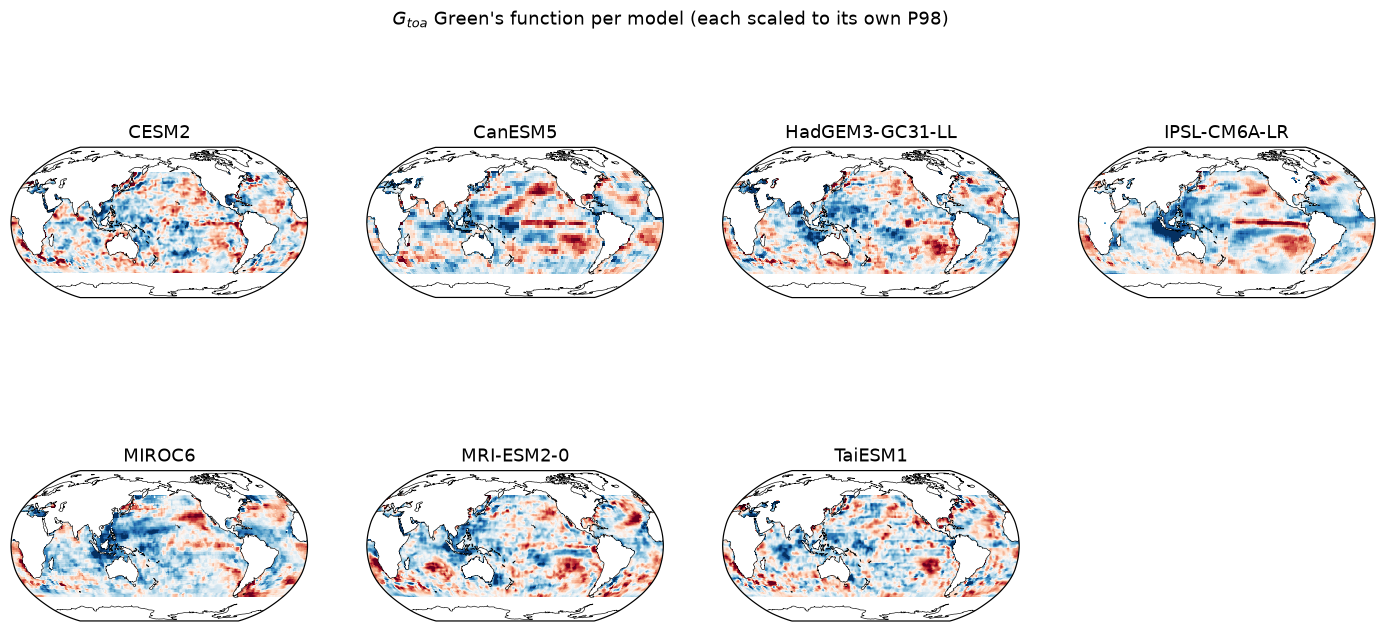
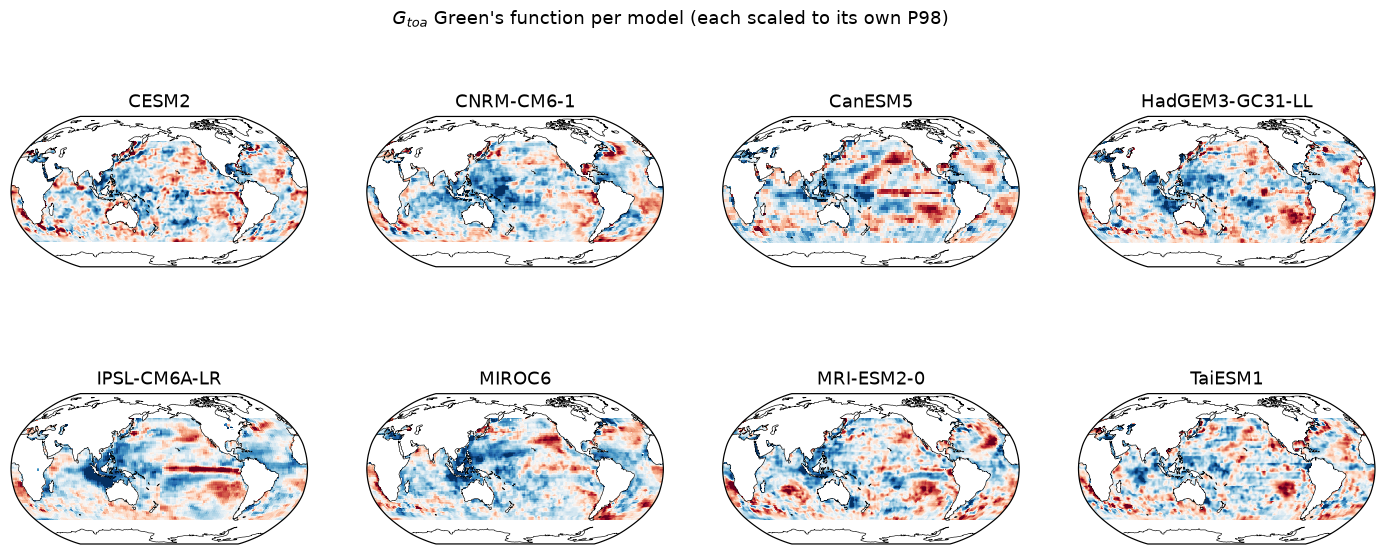
Add CNRM-CM6-1 to the analysis roster (now 8 models)
CNRM-CM6-1's amip-piForcing was downloaded, so it now has everything needed to
build and apply a GF: amip-piForcing tas/toa/ts (1870-2014), 30 historical tos
members, and sftlf. Moved it from the historical-only candidates into
CANDIDATE_AMIP_MODELS; the derived roster picks it up automatically (now 8).
Held-out skill is good (toa r² ~0.49, tas ~0.73); ensemble grows to 256 runs.

Also make the figure layouts robust to the model count: the per-model panels
were hardcoded 2x4, which fit 7 models + a pooled panel but silently clobbered
the 8th model's panel. 02 (GF maps) and 03 (feedback multipanels) now size the
grid from len(models).

diff --git a/03_feedbacks.py b/03_feedbacks.py
@@ -220,20 +220,27 @@ def hist_of(var, m):
 
 
 def multipanel(var, x, xlabel, title, fname, ylim=None):
-    fig, axes = plt.subplots(2, 4, figsize=(18, 8), sharex=True, sharey=True)
-    for ax, m in zip(axes.flat, models):
-        plotting.ensemble_band(ax, x, hist_of(var, m), "tab:blue", f"CMIP6 hist (n={hist_of(var, m).shape[0]})")
-        for e, c in [("amip_true", "k"), ("amip_gf", "tab:red")]:
-            ax.plot(x, feedbacks[var].sel(model=m, estimate=e), color=c, lw=1.8, label=e.replace("_", " "))
-        ax.set_title(m); ax.axhline(0, color="0.7", lw=0.5); ax.legend(fontsize=6.5)
-    ax = axes.flat[7]
-    plotting.ensemble_band(ax, x, ens[var].values, "tab:blue", f"CMIP6 hist (all {ens.sizes['run']})")
-    for e, c in [("amip_true", "k"), ("amip_gf", "tab:red")]:
-        ax.plot(x, feedbacks[var].sel(estimate=e).mean("model"), color=c, lw=2, label=e.replace("_", " "))
-    ax.set_title("all models pooled"); ax.axhline(0, color="0.7", lw=0.5); ax.legend(fontsize=7)
-    if ylim: ax.set_ylim(*ylim)
-    for a in axes[:, 0]: a.set_ylabel("λ [W m⁻² K⁻¹]")
-    for a in axes[1, :]: a.set_xlabel(xlabel)
+    # one panel per model plus a pooled panel; grid sized to fit however many models
+    panels = list(models) + ["all models pooled"]
+    ncols = 4
+    nrows = int(np.ceil(len(panels) / ncols))
+    fig, axes = plt.subplots(nrows, ncols, figsize=(4.5 * ncols, 3.4 * nrows), sharey=True)
+    axf = axes.flat
+    for ax, name in zip(axf, panels):
+        if name == "all models pooled":                                  # pooled = every run
+            band, true_, gf_ = ens[var].values, feedbacks[var].sel(estimate="amip_true").mean("model"), feedbacks[var].sel(estimate="amip_gf").mean("model")
+        else:                                                            # one model
+            band, true_, gf_ = hist_of(var, name), feedbacks[var].sel(model=name, estimate="amip_true"), feedbacks[var].sel(model=name, estimate="amip_gf")
+        plotting.ensemble_band(ax, x, band, "tab:blue", f"CMIP6 hist (n={np.atleast_2d(band).shape[0]})")
+        ax.plot(x, true_, "k", lw=1.8, label="amip true")
+        ax.plot(x, gf_, "tab:red", lw=1.8, label="amip gf")
+        ax.set_title(name); ax.axhline(0, color="0.7", lw=0.5); ax.legend(fontsize=6.5); ax.set_xlabel(xlabel)
+    if ylim:
+        axf[0].set_ylim(*ylim)                 # sharey -> applies to all panels
+    for ax in axf[len(panels):]:               # hide any unused panels
+        ax.axis("off")
+    for r in range(nrows):
+        axf[r * ncols].set_ylabel("λ [W m⁻² K⁻¹]")
     fig.suptitle(title); fig.tight_layout()
     FIGURES_DIR.mkdir(exist_ok=True)
     fig.savefig(FIGURES_DIR / fname, dpi=110)

diff --git a/obsgf/config.py b/obsgf/config.py
@@ -18,16 +18,16 @@ FIGURES_DIR = PROJECT_ROOT / "figures"
 CANDIDATE_AMIP_MODELS = [
     "CESM2",
     "CanESM5",
+    "CNRM-CM6-1",
     "HadGEM3-GC31-LL",
     "IPSL-CM6A-LR",
     "MIROC6",
     "MRI-ESM2-0",
     "TaiESM1",
 ]
-# GISS-E2-1-G (local amip-piForcing only 1950-1970) and CNRM-CM6-1 (no amip-piForcing
-# in the pool) can still supply historical tos, so we preprocess them — but they will
-# not enter the analysis, because a per-model GF can't be built for them.
-CANDIDATE_HIST_MODELS = CANDIDATE_AMIP_MODELS + ["CNRM-CM6-1", "GISS-E2-1-G"]
+# GISS-E2-1-G has local amip-piForcing for 1950-1970 only, so it can't build a GF; it can
+# still supply historical tos, so we preprocess it, but it won't enter the analysis.
+CANDIDATE_HIST_MODELS = CANDIDATE_AMIP_MODELS + ["GISS-E2-1-G"]
 
 # --- what to preprocess ----------------------------------------------------
 # experiment -> (variables, candidate models). "toa" is derived from rsdt-rsut-rlut.

diff --git a/02_greens.py b/02_greens.py
@@ -271,10 +271,12 @@ print(skill_table.groupby(["target", "segment"]).r2.mean().round(2).to_string())
 # %%
 import cartopy.crs as ccrs
 models = analysis_models()
-fig = plt.figure(figsize=(16, 7))
+ncols = 4
+nrows = int(np.ceil(len(models) / ncols))          # grid sized to the model count
+fig = plt.figure(figsize=(4 * ncols, 3 * nrows))
 for i, model in enumerate(models):
     g = xr.open_dataset(DERIVED_DIR / "gf" / f"GF_{model}.nc").G_toa
-    ax = plt.subplot(2, 4, i + 1, projection=ccrs.Robinson(central_longitude=180))
+    ax = plt.subplot(nrows, ncols, i + 1, projection=ccrs.Robinson(central_longitude=180))
     plotting.map_plot(g, ax=ax, robust=True, cbar=False, title=model)
 fig.suptitle("$G_{toa}$ Green's function per model (each scaled to its own P98)")
 config.FIGURES_DIR.mkdir(exist_ok=True)

diff --git a/CLAUDE.md b/CLAUDE.md
@@ -151,12 +151,13 @@ smoothed T′ ≤ 0.2 K so the denominator stays a robust positive warming signa
   Both the GF and historical stages use this one roster, so the analysis auto-restricts
   to what preprocessing produced. Don't hardcode model lists in the analysis code —
   call `analysis_models()`.
-- **Currently 7:** CESM2, CanESM5, HadGEM3-GC31-LL, IPSL-CM6A-LR, MIROC6, MRI-ESM2-0,
-  TaiESM1.
-- **Dropped from the roster:** GISS-E2-1-G (local amip-piForcing only 1950–1970),
-  CNRM-CM6-1 (no amip-piForcing). A per-model GF must exist to reconstruct a historical
-  run, so historical is *not* run on the wider tos-reporting set; their historical tos
-  is not kept. Re-download a full GISS amip-piForcing run to include it.
+- **Currently 8:** CESM2, CanESM5, CNRM-CM6-1, HadGEM3-GC31-LL, IPSL-CM6A-LR, MIROC6,
+  MRI-ESM2-0, TaiESM1. (CNRM-CM6-1 added once its amip-piForcing was downloaded; 30
+  historical members.)
+- **Dropped from the roster:** GISS-E2-1-G (local amip-piForcing only 1950–1970, so no
+  GF). A per-model GF must exist to reconstruct a historical run, so historical is *not*
+  run on the wider tos-reporting set. Re-download a full GISS amip-piForcing run to
+  include it.
 - **`sftlf`** (land fraction, fx) is now in the catalog and extracted by preprocessing
   (`sftlf_<model>.nc`); no longer a manual download. Optionally `areacella` for exact
   area weights (currently cos-lat).